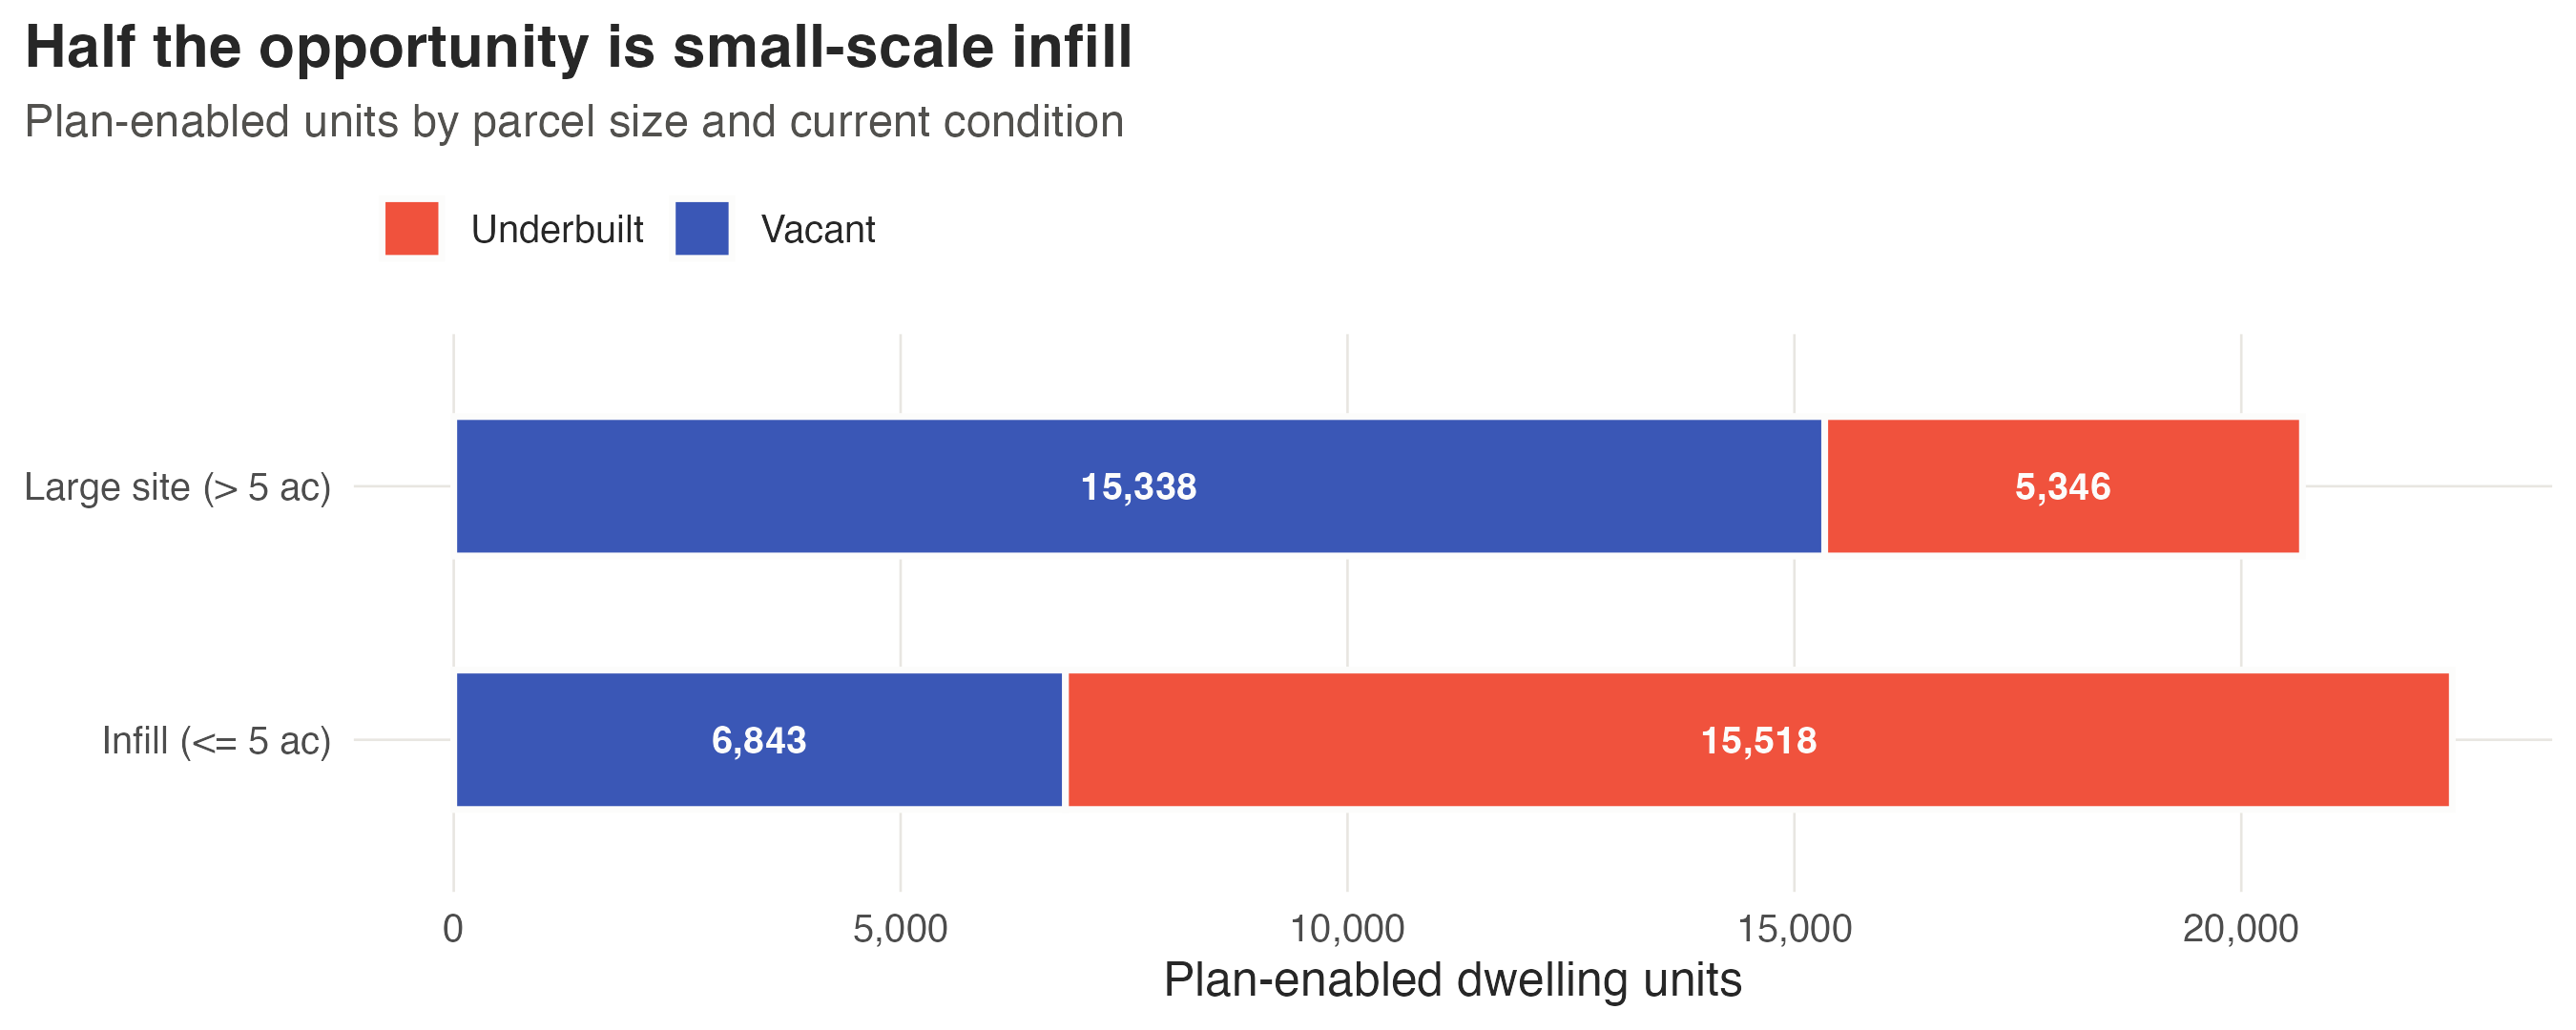
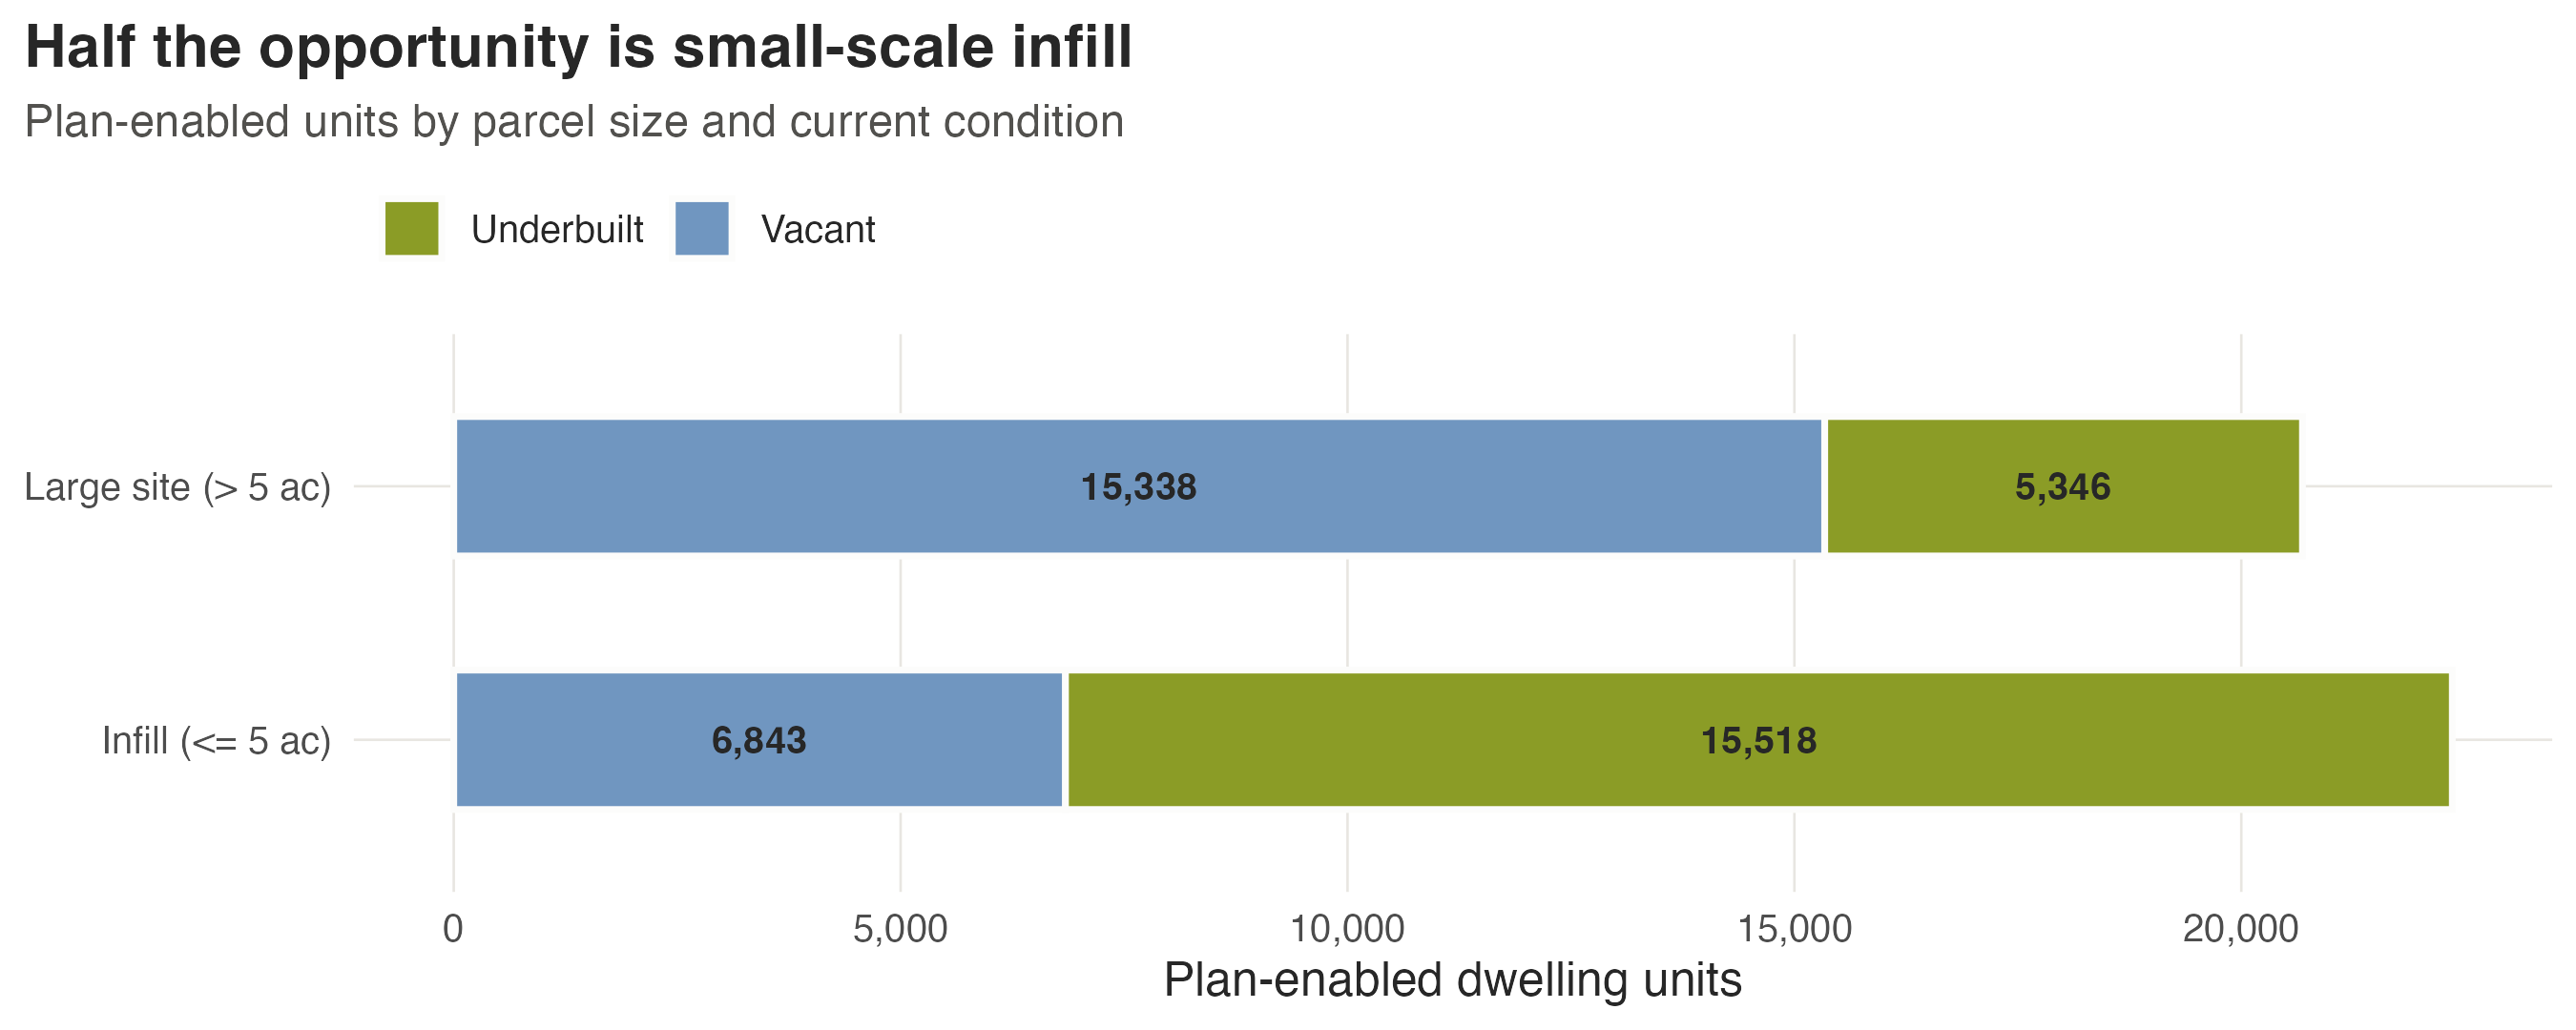
Blue/green brand palette, Part 1/2/3 site structure, framing + table fixes
- Recolor everything to user's swatches (steel blue #7096c0, chartreuse
  #bdc74f family), CVD-validated; green capacity ramp on maps
- Navbar restructured to mirror the exercise: Part 1 Data Story, Part 2
  Strategic Project Management, Part 3 AI-Enhanced Deliverable (new page
  with explicit AI-use accounting)
- Index: explain how plan-enabled capacity serves affordability and
  smart-growth goals; submission-guide callout (HTML only)
- Budget table: weeks column first, wider task column; format links
  renamed from Typst to Download PDF; memo callouts unified
- README: mermaid pipeline diagram, site link, caveats live in methods

diff --git a/brand.scss b/brand.scss
@@ -1,7 +1,8 @@
 /*-- scss:defaults --*/
-// Cascadia Partners-inspired accents (coral #f0523d, ink #272727, blue #3a57b6)
-$primary: #f0523d;
-$link-color: #3a57b6;
+// Brand accents: steel blue #7096c0 and chartreuse green (deep step #8b9c26
+// of swatch #bdc74f); ink #272727. Link blue darkened for text contrast.
+$primary: #8b9c26;
+$link-color: #46689b;
 $navbar-bg: #272727;
 $navbar-fg: #f6f6f6;
 
@@ -10,7 +11,7 @@ h1, h2, h3 {
   color: #272727;
 }
 h2 {
-  border-bottom: 2px solid #f0523d;
+  border-bottom: 2px solid #8b9c26;
   padding-bottom: 0.15em;
 }
 .navbar-brand {

diff --git a/README.md b/README.md
@@ -1,15 +1,17 @@
 # Missoula Housing Capacity — GIS Data Story
 
+**Website: <https://www.kaseyzapatka.com/cascadia/>**
+
 Analysis for the Cascadia Partners Technical Senior Associate hiring
 exercise: a parcel-level look at how much housing Missoula's adopted Growth
 Policy already makes room for, and where that capacity clusters.
 
-**Deliverables** (all built from this repo):
+**Deliverables** (all built from this repo — see the website for each):
 
-- **Part 1 — data story slide:** `docs/missoula_data_story_slide.pdf`
-  (one-page 11×8.5, from [slide.qmd](slide.qmd))
-- **Part 2 — project management one-pager:**
-  `docs/missoula_project_management.pdf` (from [part2.qmd](part2.qmd))
+- **Part 1 — data story slide:** one-page 11×8.5 PDF, from
+  [slide.qmd](slide.qmd)
+- **Part 2 — strategic project management one-pager:** from
+  [part2.qmd](part2.qmd)
 - **Part 3 — AI-enhanced web deliverable:** the Quarto website itself
   (data story, interactive map, methods, FAQ), published via GitHub Actions
 
@@ -25,6 +27,22 @@ Policy already makes room for, and where that capacity clusters.
 - **Counterpoint:** 530 mobile-home parcels (~2,850 affordable units) sit
   on planned-density land — flagged as displacement risk, excluded from
   the opportunity count.
+
+## How it fits together
+
+```mermaid
+flowchart LR
+    A[("data/<br/>taxlot .gdb + field map")] --> B["01_clean_derive.R<br/>clean + derive metrics<br/>(ILR, constraints, capacity)"]
+    B --> C["02_hotspots.R<br/>Gi* on 1,000-ft hex grid"]
+    C --> D["03_figures.R<br/>story figures"]
+    C --> E["04_interactive.R<br/>Leaflet map"]
+    D --> F[("output/figures/")]
+    E --> G[("output/maps/")]
+    F --> H["quarto render<br/>(.qmd pages)"]
+    G --> H
+    H --> I["Website<br/>(GitHub Actions → gh-pages)"]
+    H --> J["PDFs: Part 1 slide,<br/>Part 2 one-pager, memo"]
+```
 
 ## Pipeline
 
@@ -42,16 +60,18 @@ Rscript code/run_all.R   # raw .gdb -> derived data -> figures -> leaflet map
 4. [code/04_interactive.R](code/04_interactive.R) — self-contained Leaflet
    map for the website
 
-All tunable assumptions live in [code/00_setup.R](code/00_setup.R).
-Requires R (developed on 4.5) with `sf`, `dplyr`, `tidyr`, `readr`,
+All tunable assumptions live in [code/00_setup.R](code/00_setup.R);
+methodology, assumptions, and limitations are documented on the site's
+[Methods & Sources](https://www.kaseyzapatka.com/cascadia/methods.html)
+page. Requires R (developed on 4.5) with `sf`, `dplyr`, `tidyr`, `readr`,
 `spdep`, `ggplot2`, `scales`, `leaflet`, `htmlwidgets`, `here`; exact
 environment in [output/session_info.txt](output/session_info.txt).
 
 ## Website
 
-Quarto site (pages: `index`, `map`, `methods`, `part2`, `faq`; config in
-[_quarto.yml](_quarto.yml)). The site embeds the committed figures and map
-from `output/`, so rendering never re-runs the analysis:
+Quarto site (config in [_quarto.yml](_quarto.yml)). The site embeds the
+committed figures and map from `output/`, so rendering never re-runs the
+analysis:
 
 ```sh
 quarto render        # -> docs/ (also builds the three PDFs via post-render)
@@ -60,8 +80,6 @@ quarto preview       # local preview
 
 Publishing: [.github/workflows/publish.yml](.github/workflows/publish.yml)
 renders and pushes to the `gh-pages` branch on every push to `main`.
-One-time setup after first push: **Settings → Pages → Deploy from a
-branch → `gh-pages` / root**.
 
 ## Repository layout
 
@@ -73,15 +91,3 @@ output/     generated figures, leaflet map, stats (committed; gpkg ignored)
 scripts/    quarto post-render hook (PDF builds)
 docs/       rendered site (gitignored; CI publishes gh-pages)
 ```
-
-## Assumptions & caveats
-
-- Density assumptions per future land-use designation are placeholders
-  calibrated to Growth Policy ranges — **verify against the adopted
-  document before client use** (`DU_PER_ACRE` in `code/00_setup.R`).
-- Flood/slope NA means "no mapped constraint" (treated as 0%); constraint
-  share takes the max of the two.
-- Assessed values proxy economic softness (ILR), not market prices.
-- Capacity is plan-implied, not a development forecast.
-- The Sxwtpqyen Area designation is conservatively excluded from capacity,
-  so totals are likely understated.